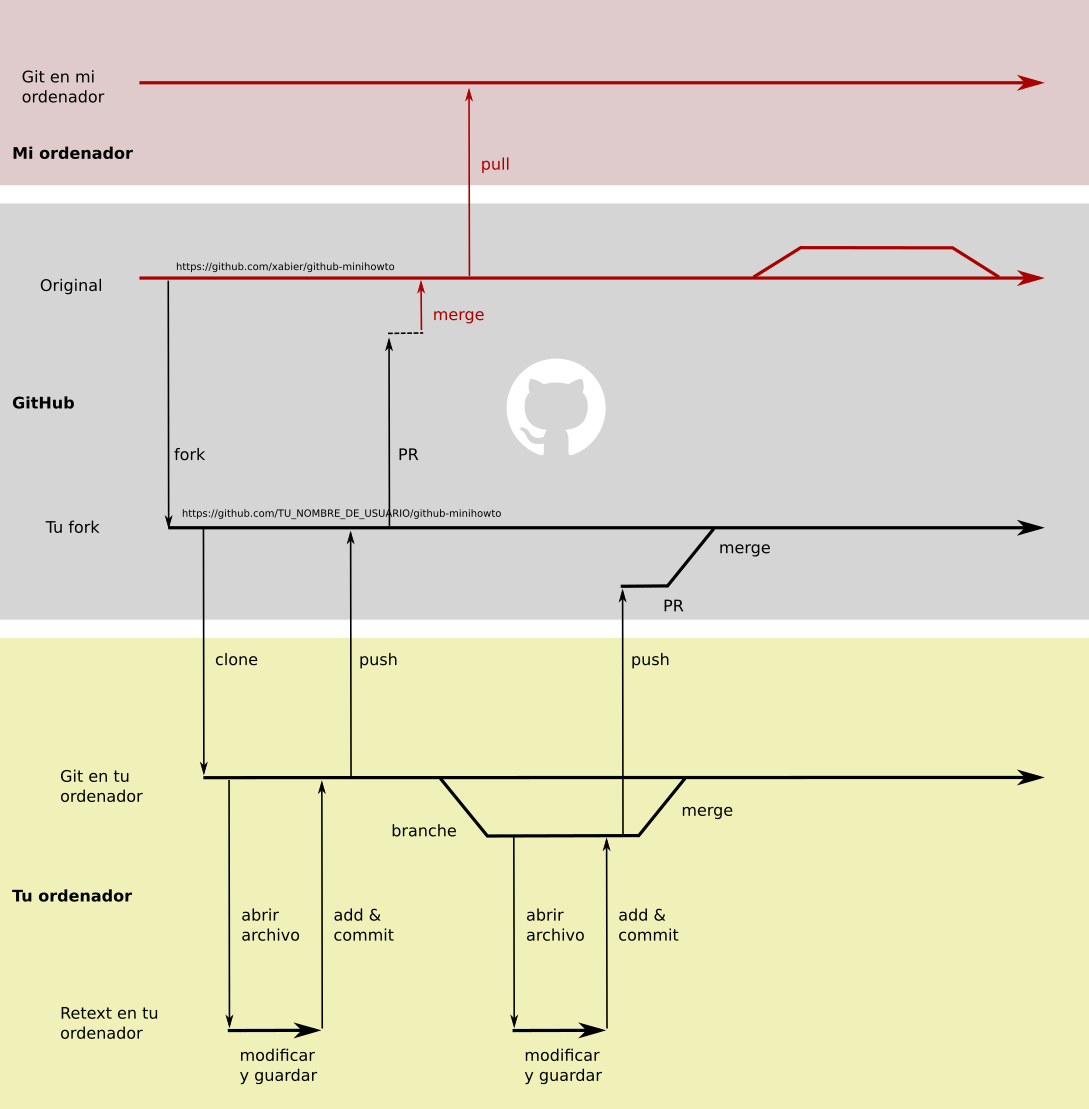
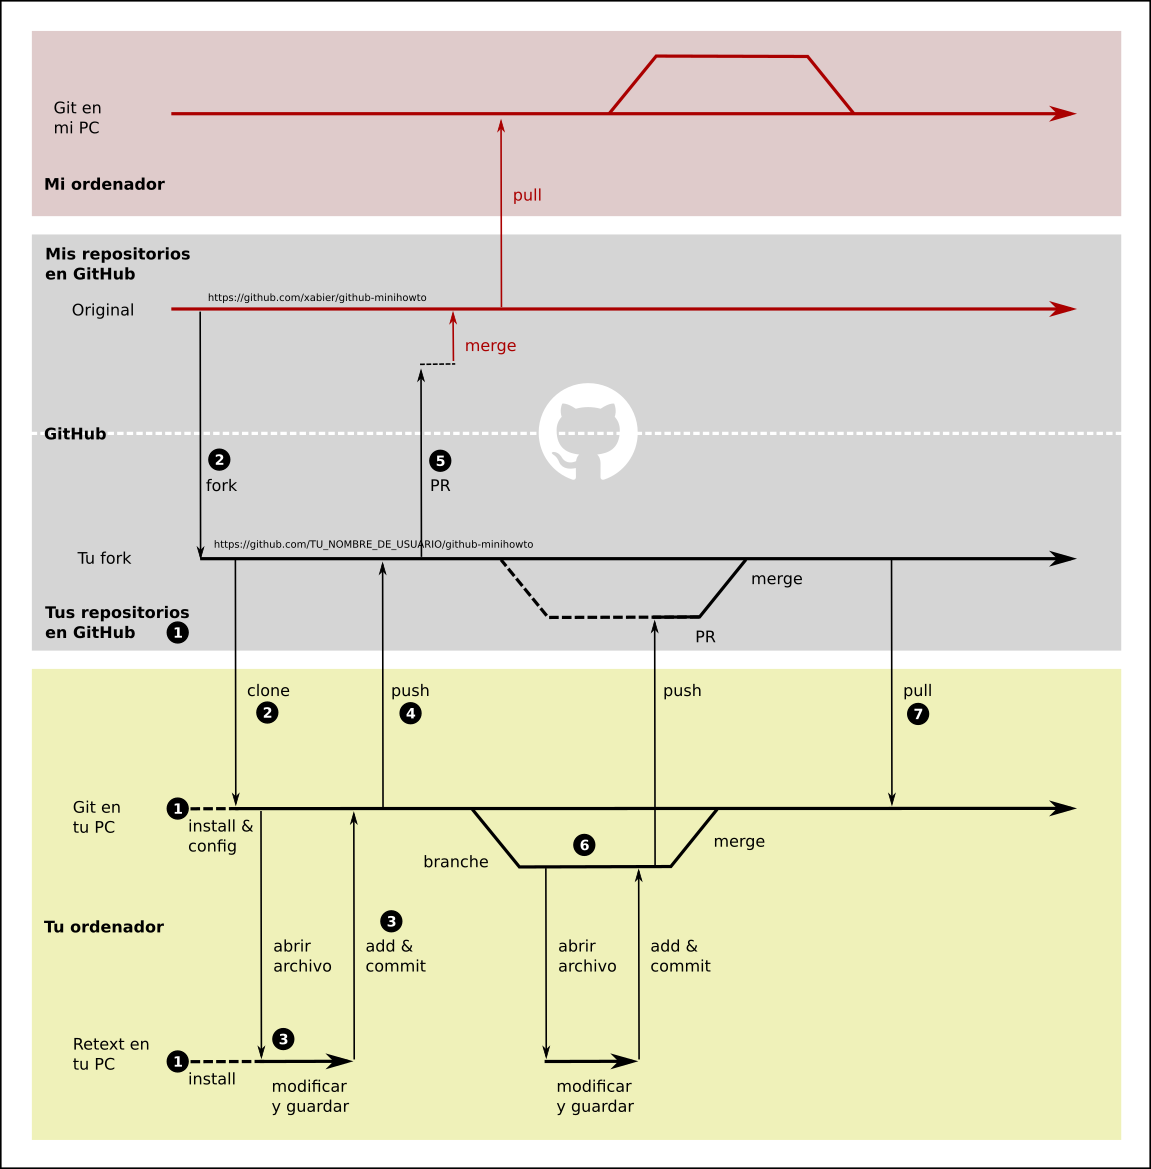
included numbers and references to diagram

diff --git a/howto.es.md b/howto.es.md
@@ -4,14 +4,13 @@
 
 * [Superfast](#Superfast)
 * [Paso a Paso](#paso-a-paso)
-    * [Instalar git](#instalar-git)
-    * [Configurar git](#configurar-git)
-    * [Forkear y clonar este repositorio](#forkear-y-clonar-este-repositorio)
-    * [Editar archivos y realizar cambios](#editar-archivos-y-realizar-cambios)
-    * [Actualizar cambios en el servidor remoto](#actualizar-cambios-en-el-servidor-remoto)
-    * [Tu primer Pull Request](#tu-primer-pull-request)
-    * [Trabajar en Ramas](#trabajar-en-ramas)
-    * [Actualizar tus repositorios locales](#actualizar-tus-repositorios-locales)
+    * [1. Instalar y configurar git y retext y crear cuenta en github](#instalar-git)
+    * [2. Forkear y clonar este repositorio](#forkear-y-clonar-este-repositorio)
+    * [3. Editar archivos y realizar cambios](#editar-archivos-y-realizar-cambios)
+    * [4. Actualizar cambios en el servidor remoto](#actualizar-cambios-en-el-servidor-remoto)
+    * [5. Tu primer Pull Request](#tu-primer-pull-request)
+    * [6. Trabajar en Ramas](#trabajar-en-ramas)
+    * [7. Actualizar tus repositorios locales](#actualizar-tus-repositorios-locales)
 * [Personas que están aprendido con este tutorial](#personas-que-estan-aprendido-con-este-tutorial)
 * [Referencias](#referencias)
 
@@ -60,26 +59,27 @@ $ git branch -d NOMBRE_RAMA # borrar rama
 
 # Paso a paso
 
-Aquí tienes un esquema de todos los pasos que vamos a ir dando, rojo aparecen las acciones, archivos y repositorios que me tocan a mi, en negro lo que vas a crear y hacer tú.
+Aquí tienes un esquema de todos los pasos que vamos a ir dando:
 
 ![Diagrama de flujo y acciones de este tutorial](img/diagram-git-github.png)
 
+No te asustes con la complejidad del diagrama. Iremos paso a paso y al final del tutorial te servirá como referencia para ordenar todas las acciones que vamos a realizar. En el diagrama diferenciamos tres espacios de trabajo: arriba del todo mi ordenador, abajo del todo el tuyo, en medio GitHub, donde diferenciamos el espacio de tus respositorios y del mío. Las flechas en rojo aparecen las acciones, archivos y repositorios que me tocan a mi, en negro lo que vas a crear y hacer tú.
 
-## Instalar git
 
-Instala github en Ubuntu con el siguiente comando:
+## 1. Instalar y configurar git y retext y crear cuenta en github
+
+Instala git y retext en Ubuntu con el siguiente comando:
 
 ```shell
 $ sudo apt-get install git-all  # Instalar git
 $ sudo apt-get install retext   # Instalar editor Retext
 ```
 
-`Retext` nos va a servir par poder editar archivos en lenguaje Markdown (como este mismo, si necesitas una introducción a Markdown puedes consultar [esta guía introductoria a Markdown](https://github.com/xabier/escritura-colaborativa-github/blob/master/lenguajes-de-marca.md)), puedes utilizar cualquier otro editor, incluso un editor de texto plano.
+`Retext` nos va a servir par poder editar archivos en lenguaje Markdown (como este mismo, si necesitas una introducción a Markdown puedes consultar [esta guía introductoria a Markdown](https://github.com/xabier/escritura-colaborativa-github/blob/master/lenguajes-de-marca.md)), puedes utilizar cualquier otro editor, incluso un editor de texto plano. Lo que permite Retext, a diferencia de otros editores, es ver en tiempo real cómo se formatea Markdown. Para eso tienes que activar la visualización en pantalla partida, a la izquierda verás el código de Markdown y a la derecha cómo queda visualmente. Para ello haz click en el icono siguiente:
+
+![Preview Retext](img/retext-preview.png)
 
 Si no la tiene aún [create una cuenta en github](https://github.com/join?source=login).
-
-
-## Configurar git
 
 Usa tu nombre de usuario de GitHub para configurar la autoría de tus cambios:
 
@@ -100,15 +100,15 @@ $ cd                    # Volver a Home
 $ mkdir repos-git       # crear directorio o carpeta "repos-git"
 ```
 
-## Forkear y clonar este repositorio
+## 2. Forkear y clonar este repositorio
 
-Empezar con este repositorio no es tan fácil como empezar de cero porque este repositorio no es tuyo, tú no puedes contribuir directamente aquí. Pero empezar sin nada que clonar tampoco es fácil. Así que las cosas serán un poquito más complicadas al principio pero un poco más fáciles después. Vamos a empezar comprendiendo los pasos que vamos a dar:
+Empezar con este repositorio no es tan fácil como empezar de cero porque este repositorio no es tuyo, tú no puedes contribuir directamente aquí. Pero empezar sin nada que clonar tampoco es fácil. Así que las cosas serán un poquito más complicadas al principio pero un poco más fáciles después. Estos son los pasos que vamos a dar:
 
-1. Vas a crear un fork de este repositorio, un fork es una copia con la que podrás trabajar directamente, ya que este fork o copia será tuya, y en tus propio repositorio no tienes que pedir permiso. 
+Vas a crear un fork de este repositorio, un fork es una copia con la que podrás trabajar directamente, ya que este fork o copia será tuya, y en tus propio repositorio no tienes que pedir permiso a  nadie.
 
 ![Hacer un fork de este proyecto](img/fork.png)
 
-2. Ahora que ya tienes tu fork puedes clonar y descargarte el repositorio a tu ordenador y comenzar a trabajar para ello harás
+Ahora que ya tienes tu fork puedes clonar y descargarte el repositorio a tu ordenador y comenzar a trabajar para ello harás:
 
 ```shell
 $ cd ~/repos-git        # con esto nos movemos a nuestra carpeta de repositorios
@@ -126,7 +126,7 @@ $ cd github-minihowto   # para moverse a la nueva carpeta
 Ya estamos preparadas para editar archivos y contribuir.
 
 
-## Editar archivos y realizar cambios
+## 3. Editar archivos y realizar cambios
 
 Vas a la carpeta que tienes en local y editas un documento cualquiera, por ejemplo 
 
@@ -155,7 +155,7 @@ $ git commit -m "He añadido mi nombre en la lista"
 El texto entrecomillado es el mensaje con el que se guardarán dichos cambios explicando a terceros cual es, en resumen, la aportación o modificaciones que has realizado.
 
 
-## Actualizar cambios en el servidor remoto
+## 4. Actualizar cambios en el servidor remoto
 
 Lo que queremos hacer ahora es empujar (push) nuestros cambios en local (en nuestro ordenador) a la rama maestra (master) que está en nuestro repositorio forkeado en github, para eso hacemos:
 
@@ -168,14 +168,12 @@ La propia línea de comandos te pedirá tu nombre de usuario y tu password en gi
 Enhorabuena, acabas de actualizar tu repositorio en Github con los cambios que has realizado.
 
 
-## Tu primer Pull Request
+## 5. Tu primer Pull Request
 
 Ahora vamos a realizar tu primer Pull Request o PR: pedir que incorporen tus mejoras en el original del que forkeaste, para que este manual quede actualizado con los cambios que has realizado en tu fork.
 
 
-
-
-## Trabajar en Ramas
+## 6. Trabajar en Ramas
 
 Si en lugar de actualizar los cambios directamente en master queremos crear una rama, actualizar y sólo posteriormente fusionar o actualizar los cambios en la rama maestra (master), entonces, primero tenemos que crear una rama:
 
@@ -209,7 +207,7 @@ $ git branch -d NOMBRE_RAMA
 ```
 
 
-## Actualizar tus repositorios locales
+## 7. Actualizar tus repositorios locales
 
 Si hay cambios en los servidores remotos y tienes que actualizar tu repositorio local.
 
